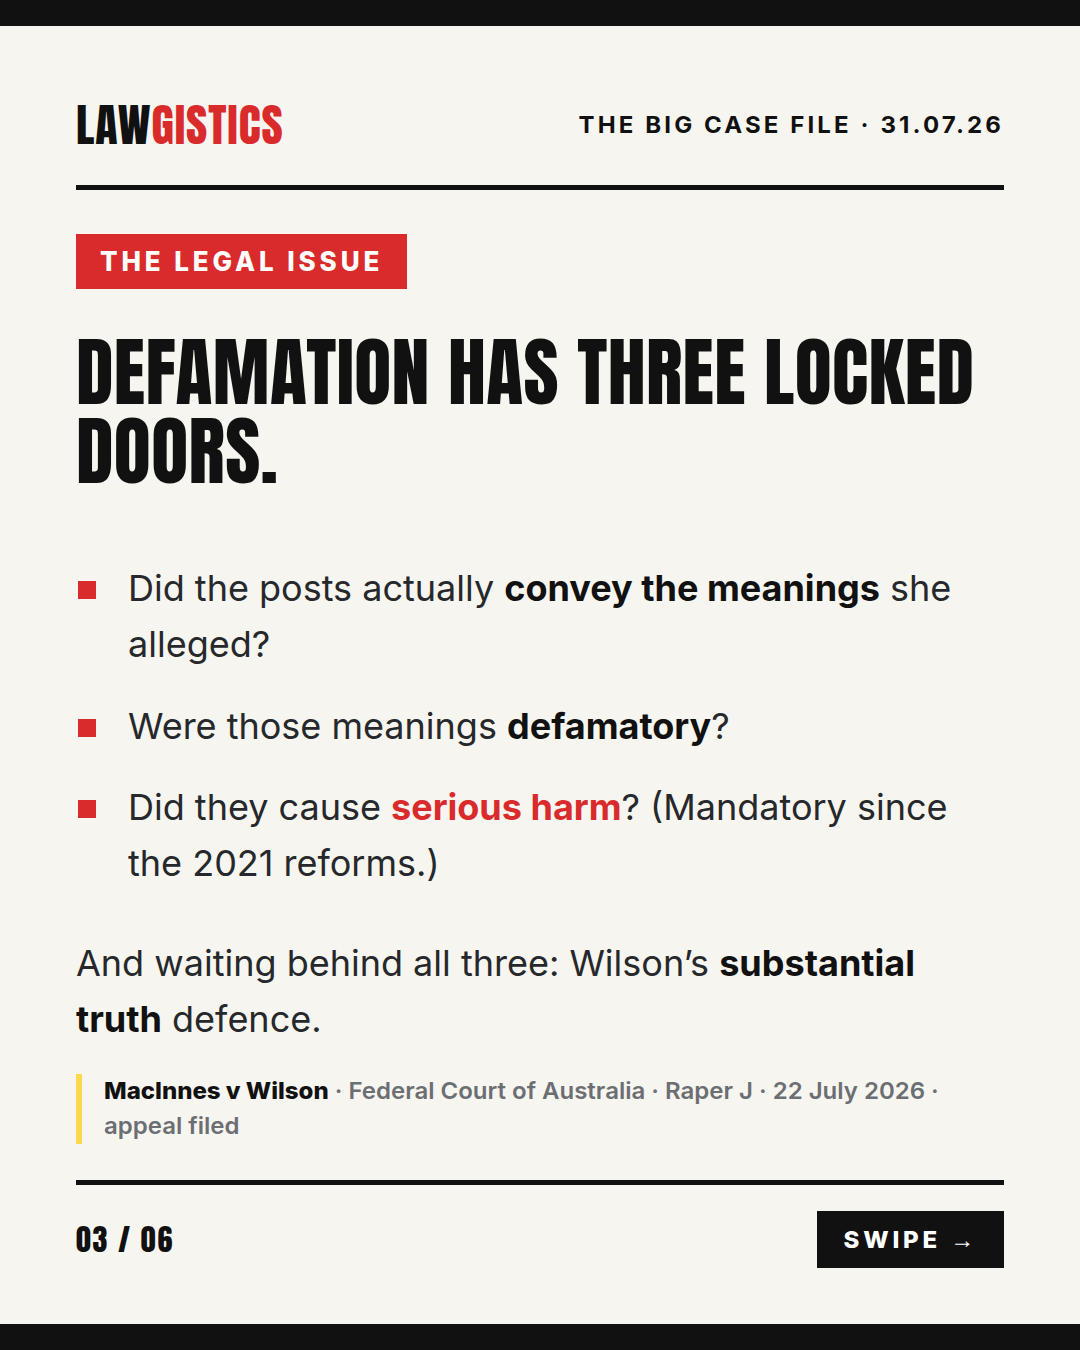
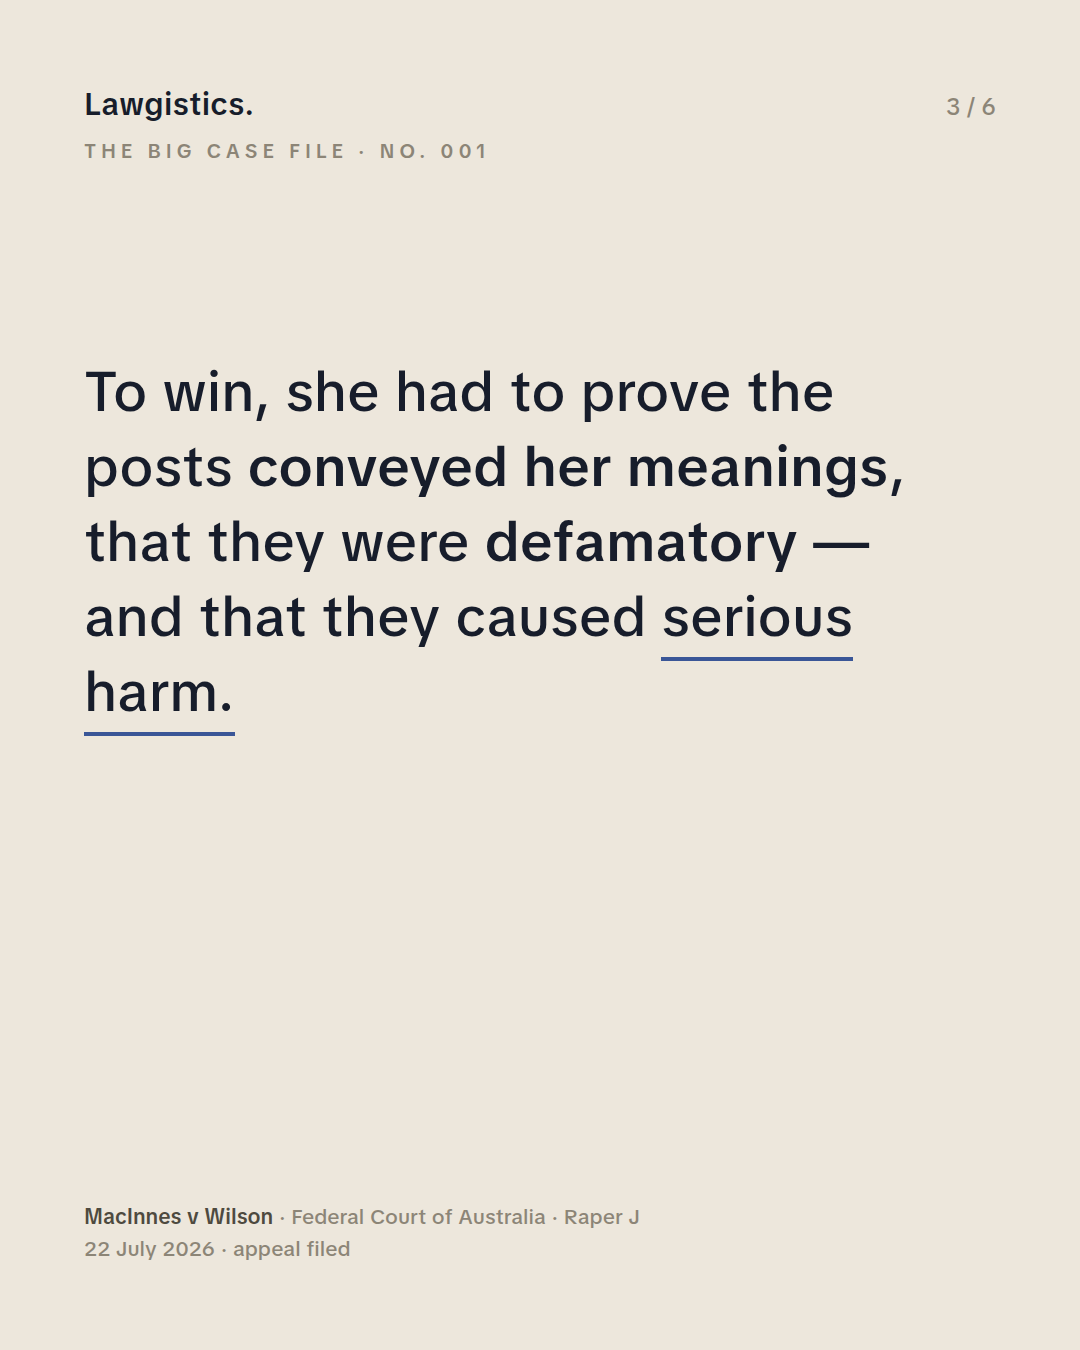
Adopt final Minimal design system from Niamh's brand references
One statement per slide in TikTok Sans on the existing Lawgistics
cream/navy palette with steel-blue underline accent; navy inverted
closer slide. All 18 slides re-rendered; pipeline and CLAUDE.md
updated. Supersedes the Press direction.

Claude-Session: https://claude.ai/code/session_01JRjeUUcoRT5GxuTf3inkfN

diff --git a/tools/carousel/build.py b/tools/carousel/build.py
@@ -1,8 +1,10 @@
 #!/usr/bin/env python3
-"""Lawgistics carousel generator — PRESS design system (approved 30 Jul 2026).
+"""Lawgistics carousel generator — MINIMAL design system (approved 30 Jul 2026).
 
-Newsprint look: cream paper #F7F5F0, black #111 Anton headlines, red #D92B2B
-tags, yellow #FFD84D highlighter. Fonts: Anton (display), Inter (everything else).
+Quiet-luxury editorial: one statement per slide, huge whitespace.
+Palette (from Niamh's existing Lawgistics grid): warm cream #EDE7DC,
+deep navy #171D2B, steel-blue underline accent #3A5697.
+Font: TikTok Sans (@fontsource/tiktok-sans). Final slide inverts to navy.
 Edit SETS below, run `python3 build.py`, then `node shoot.mjs` → PNGs in ./out/.
 """
 import json, pathlib
@@ -12,151 +14,122 @@ F = BASE / "node_modules" / "@fontsource"
 OUT = BASE / "out"
 OUT.mkdir(exist_ok=True)
 
-def font(fam, pkg, w):
-    return f"@font-face{{font-family:'{fam}';font-weight:{w};src:url('file://{F}/{pkg}/files/{pkg}-latin-{w}-normal.woff2') format('woff2');}}"
+def font(w):
+    return f"@font-face{{font-family:'TikTok Sans';font-weight:{w};src:url('file://{F}/tiktok-sans/files/tiktok-sans-latin-{w}-normal.woff2') format('woff2');}}"
 
-CSS = "\n".join([font("Anton","anton",400)] + [font("Inter","inter",w) for w in (400,500,600,700,800)]) + """
+CSS = "\n".join(font(w) for w in (400,500,600,700)) + """
 *{margin:0;padding:0;box-sizing:border-box;}
 html,body{width:1080px;height:1350px;overflow:hidden;-webkit-font-smoothing:antialiased;}
-body{background:#F7F5F0;font-family:'Inter',sans-serif;color:#111;}
-.bar{position:absolute;top:0;left:0;right:0;height:26px;background:#111;}
-.bar2{position:absolute;bottom:0;left:0;right:0;height:26px;background:#111;}
-.page{position:absolute;inset:26px 0;padding:64px 76px 56px;display:flex;flex-direction:column;}
-.masthead{display:flex;justify-content:space-between;align-items:center;border-bottom:5px solid #111;padding-bottom:26px;}
-.masthead .brand{font-family:'Anton';font-size:46px;letter-spacing:.02em;text-transform:uppercase;}
-.masthead .brand em{font-style:normal;color:#D92B2B;}
-.masthead .date{font-weight:700;font-size:24px;letter-spacing:.13em;text-transform:uppercase;}
-.series{margin-top:44px;display:flex;align-items:center;gap:20px;}
-.series .tag{background:#D92B2B;color:#fff;font-weight:800;font-size:26px;letter-spacing:.15em;padding:12px 24px;text-transform:uppercase;white-space:nowrap;}
-.series .no{font-weight:800;font-size:26px;letter-spacing:.1em;color:#111;text-transform:uppercase;}
-h1{font-family:'Anton';font-weight:400;line-height:1.04;text-transform:uppercase;margin-top:44px;letter-spacing:.005em;}
-.cover h1{font-size:118px;line-height:1.02;}
-.content h1{font-size:76px;}
-.q h1{font-size:88px;line-height:1.08;}
-h1 .hl{background:linear-gradient(180deg,transparent 8%,#FFD84D 8%,#FFD84D 92%,transparent 92%);padding:0 10px;}
-.standfirst{margin-top:50px;font-size:38px;line-height:1.52;color:#26282B;max-width:890px;}
-.body{margin-top:44px;font-size:36px;line-height:1.55;color:#26282B;}
-.body p+p{margin-top:28px;}
-.standfirst strong,.body strong{font-weight:700;color:#111;}
-.standfirst em,.body em{font-style:normal;font-weight:700;color:#D92B2B;}
-ul.body{list-style:none;}
-ul.body li{padding-left:52px;position:relative;margin-top:26px;}
-ul.body li::before{content:'';position:absolute;left:2px;top:20px;width:18px;height:18px;background:#D92B2B;}
-.cite{margin-top:auto;font-size:24px;font-weight:600;color:#6B6E73;border-left:6px solid #FFD84D;padding-left:22px;line-height:1.45;}
-.cite b{color:#111;}
-.disclaimer{margin-top:auto;font-size:22px;color:#8A8D92;line-height:1.5;max-width:700px;}
-.foot{margin-top:36px;border-top:5px solid #111;padding-top:26px;display:flex;justify-content:space-between;align-items:center;}
-.foot .pg{font-family:'Anton';font-size:30px;letter-spacing:.06em;}
-.foot .cta{background:#111;color:#fff;font-weight:800;font-size:24px;letter-spacing:.16em;padding:14px 26px;text-transform:uppercase;}
+body{font-family:'TikTok Sans',sans-serif;background:#EDE7DC;color:#171D2B;}
+body.dark{background:#171D2B;color:#EDE7DC;}
+.page{position:absolute;inset:0;padding:84px;display:flex;flex-direction:column;}
+.top{display:flex;justify-content:space-between;align-items:baseline;}
+.brand{font-size:31px;font-weight:600;letter-spacing:.01em;}
+.pg{font-size:23px;font-weight:500;color:#8C8577;}
+.dark .pg{color:#8B93A8;}
+.kicker{margin-top:14px;font-size:20px;font-weight:600;letter-spacing:.24em;text-transform:uppercase;color:#8C8577;}
+.dark .kicker{color:#8B93A8;}
+.statement{margin-top:190px;font-weight:500;color:inherit;max-width:900px;}
+.statement.lg{font-size:64px;line-height:1.3;}
+.statement.md{font-size:56px;line-height:1.34;}
+.statement p+p{margin-top:44px;}
+.statement strong{font-weight:600;}
+.u{border-bottom:4px solid #3A5697;padding-bottom:4px;box-decoration-break:clone;-webkit-box-decoration-break:clone;}
+.dark .u{border-bottom-color:#6E86C9;}
+.sub{margin-top:56px;font-size:30px;line-height:1.5;font-weight:400;color:#6E6858;max-width:820px;}
+.dark .sub{color:#A9B0C2;}
+.bottom{margin-top:auto;display:flex;justify-content:space-between;align-items:flex-end;gap:60px;}
+.cite{font-size:21px;line-height:1.55;font-weight:500;color:#8C8577;max-width:700px;}
+.cite b{color:#4E4A3F;font-weight:600;}
+.dark .cite{color:#8B93A8;}
+.dark .cite b{color:#C9CEDD;}
+.swipe{font-size:21px;font-weight:600;letter-spacing:.22em;text-transform:uppercase;color:#171D2B;white-space:nowrap;}
+.dark .swipe{color:#EDE7DC;}
+.disclaimer{font-size:18px;line-height:1.5;color:#707888;max-width:640px;margin-top:20px;}
 """
 
-def page(slug, kicker, tag, no, klass, inner, pg, cta):
-    no_html = f'<span class="no">{no}</span>' if no else ''
+def slide(slug, kicker, n, statement, cite, size="md", dark=False, sub=None, swipe=None, disclaimer=False):
+    disc = '<div class="disclaimer">General information only, not legal advice. Check details against the full judgment.</div>' if disclaimer else ''
+    sub_html = f'<div class="sub">{sub}</div>' if sub else ''
+    swipe_html = f'<div class="swipe">{swipe}</div>' if swipe else ''
     html = f"""<!doctype html><html><head><meta charset="utf-8"><style>{CSS}</style></head>
-<body><div class="bar"></div><div class="bar2"></div>
-<div class="page {klass}">
-  <div class="masthead"><div class="brand">Law<em>gistics</em></div><div class="date">{kicker}</div></div>
-  <div class="series"><span class="tag">{tag}</span>{no_html}</div>
-  {inner}
-  <div class="foot"><div class="pg">{pg}</div><div class="cta">{cta}</div></div>
+<body class="{'dark' if dark else ''}"><div class="page">
+  <div class="top"><div class="brand">Lawgistics.</div><div class="pg">{n} / 6</div></div>
+  <div class="kicker">{kicker}</div>
+  <div class="statement {size}">{statement}</div>
+  {sub_html}
+  <div class="bottom"><div><div class="cite">{cite}</div>{disc}</div>{swipe_html}</div>
 </div></body></html>"""
     (OUT / f"{slug}.html").write_text(html)
 
-def cover(slug, kicker, tag, no, headline, standfirst, cite):
-    page(slug, kicker, tag, no, "cover",
-        f'<h1>{headline}</h1><div class="standfirst">{standfirst}</div><div class="cite">{cite}</div>',
-        "01 / 06", "Swipe &rarr;")
+K_A = "Daily Court Intelligence &middot; 30.07.26"
+K_B = "Daily Court Intelligence &middot; 30.07.26"
+K_F = "The Big Case File &middot; No. 001"
+CITE_A = '<b>White Oak Commercial Finance Europe (Non-Levered) Ltd v Insurance Australia Ltd</b><br>[2026] FCA 769 &middot; Federal Court of Australia &middot; Thawley J'
+CITE_B = '<b>Elvin v Fair Work Ombudsman</b> &middot; [2026] FCAFC 92<br>Full Court of the Federal Court &middot; Collier, McDonald &amp; Vandongen JJ'
+CITE_F = '<b>MacInnes v Wilson</b> &middot; Federal Court of Australia &middot; Raper J<br>22 July 2026 &middot; appeal filed'
 
-def content(slug, kicker, tag, headline, body, cite, n):
-    page(slug, kicker, tag, "", "content",
-        f'<h1>{headline}</h1>{body}<div class="cite">{cite}</div>',
-        f"0{n} / 06", "Swipe &rarr;")
-
-def question(slug, kicker, headline, cta_text):
-    page(slug, kicker, "Your Turn", "", "q",
-        f'<h1>{headline}</h1><div class="standfirst">{cta_text}</div>'
-        '<div class="disclaimer">General information only, not legal advice. Details should be checked against the full judgment before relying on them.</div>',
-        "06 / 06", "Comment &darr;")
-
-K_DAILY = "Daily Court Intelligence &middot; 30.07.26"
-K_FRI = "The Big Case File &middot; 31.07.26"
-CITE_A = '<b>White Oak Commercial Finance Europe (Non-Levered) Ltd v Insurance Australia Ltd</b> &middot; [2026] FCA 769'
-CITE_B = '<b>Elvin v Fair Work Ombudsman</b> &middot; [2026] FCAFC 92'
-CITE_F = '<b>MacInnes v Wilson</b> &middot; Federal Court of Australia &middot; Raper J &middot; 22 July 2026 &middot; appeal filed'
-
-# ── Set A: White Oak (daily) ──
-cover("a1", K_DAILY, "Federal Court", "Privilege",
-    '&ldquo;Without prejudice&rdquo; is not a <span class="hl">magic spell.</span>',
-    'The Federal Court refused to protect settlement-adjacent messages in the <strong>Greensill insurance wars</strong> &mdash; because labels don&rsquo;t make privilege. <em>Substance does.</em>',
+# ── Set A: White Oak ──
+slide("a1", K_A, 1,
+    'The Federal Court just ruled that labelling a message &ldquo;without prejudice&rdquo; protects&hellip; <span class="u">nothing, by itself.</span>',
+    CITE_A, size="lg", swipe="Swipe &rarr;")
+slide("a2", K_A, 2,
+    '<p>After Greensill collapsed, lender White Oak sued insurer IAL under a trade credit policy.</p><p>The insurer demanded <strong>twelve messages and a draft term sheet</strong> created while the parties circled a settlement.</p>',
     CITE_A)
-content("a2", K_DAILY, "The Facts", 'A collapsed giant. A lender. An insurer.',
-    """<div class="body"><p>After <strong>Greensill</strong> imploded in 2021, lender <strong>White Oak</strong> sued Insurance Australia Ltd, claiming trade credit insurance should cover its losses.</p>
-    <p>This round was a documents fight: the insurer demanded <em>twelve messages and a draft term sheet</em> created while the parties circled a possible settlement.</p></div>""", CITE_A, 2)
-content("a3", K_DAILY, "The Legal Issue", 'Are &ldquo;settlement vibes&rdquo; protected?',
-    """<div class="body"><p>Without prejudice privilege shields <strong>genuine settlement negotiations</strong> from becoming evidence.</p>
-    <p>But does it cover messages that merely <em>talk about</em> the dispute &mdash; with no offer, no admissions, no deal on the table?</p></div>""", CITE_A, 3)
-content("a4", K_DAILY, "The Court&rsquo;s Reasoning", 'No negotiation, no privilege.',
-    """<ul class="body">
-    <li>The messages addressed only a <strong>&ldquo;general approach&rdquo;</strong> to the dispute.</li>
-    <li>No reference to litigation. No admissions. <em>No element of compromise.</em></li>
-    <li>Other documents weren&rsquo;t even relevant &mdash; so production was refused at the first gate.</li></ul>""", CITE_A, 4)
-content("a5", K_DAILY, "Practical Takeaway", 'Make negotiations look like negotiations.',
-    """<ul class="body">
-    <li>A &ldquo;without prejudice&rdquo; header <strong>proves nothing</strong> on its own.</li>
-    <li>Substantiate privilege <strong>document by document</strong>, with evidence.</li>
-    <li>Resisting production? Argue <em>relevance first</em> &mdash; it&rsquo;s often the cleaner kill.</li></ul>""", CITE_A, 5)
-question("a6", K_DAILY, 'Ever written &ldquo;without prejudice&rdquo;&hellip; <span class="hl">just in case?</span>',
-    'Be honest. <strong>Tell us in the comments</strong> &mdash; and share this with the colleague who does it weekly.')
+slide("a3", K_A, 3,
+    '<p>Settlement negotiations are privileged.</p><p>But are messages that merely <em>talk about</em> a dispute &mdash; <span class="u">no offer, no admissions</span> &mdash; negotiations at all?</p>'.replace('<em>','<strong>').replace('</em>','</strong>'),
+    CITE_A)
+slide("a4", K_A, 4,
+    '<p>No, said the Court.</p><p>A &ldquo;general approach&rdquo; to a dispute, with <span class="u">no element of compromise</span>, is not a negotiation. No privilege &mdash; and irrelevant documents stay put anyway.</p>',
+    CITE_A)
+slide("a5", K_A, 5,
+    '<p>Substantiate privilege document by document.</p><p>Argue relevance first.</p><p>And make negotiations <span class="u">look like negotiations.</span></p>',
+    CITE_A)
+slide("a6", K_A, 6,
+    'Be honest &mdash; have you ever written &ldquo;without prejudice&rdquo; <span class="u">just in case?</span>',
+    CITE_A, size="lg", dark=True, sub="Tell us in the comments &mdash; and send this to the colleague who does it weekly.",
+    swipe="Comment &darr;", disclaimer=True)
 
-# ── Set B: Elvin (banked daily) ──
-cover("b1", K_DAILY, "Full Federal Court", "Fair Work",
-    'The company cut a deal. The regulator <span class="hl">kept coming.</span>',
-    'A deed of company arrangement didn&rsquo;t stop the <strong>Fair Work Ombudsman</strong> &mdash; and the Full Court&rsquo;s ruling touches <em>every underpayment case</em> in Australia.',
+# ── Set B: Elvin ──
+slide("b1", K_B, 1,
+    'A company cut a deal with its creditors. The Fair Work Ombudsman <span class="u">kept coming anyway.</span>',
+    CITE_B, size="lg", swipe="Swipe &rarr;")
+slide("b2", K_B, 2,
+    '<p>The FWO sued over underpaid massage therapists &mdash; and won, including findings against an individual <strong>personally involved</strong>.</p><p>Then the employer struck a deed of company arrangement.</p>',
     CITE_B)
-content("b2", K_DAILY, "The Facts", 'Underpaid therapists, personal liability.',
-    """<div class="body"><p>The Fair Work Ombudsman sued over <strong>underpaid massage therapists</strong> &mdash; and won at trial, including findings against an individual <em>personally involved</em> in the contraventions.</p>
-    <p>Meanwhile, the employing company struck a <strong>deed of company arrangement</strong> (DOCA) with its creditors.</p></div>""", CITE_B, 2)
-content("b3", K_DAILY, "The Legal Issues", 'Three questions, one appeal.',
-    """<ul class="body">
-    <li>Were the therapists correctly classified under the <strong>health award</strong>?</li>
-    <li>Was the trial <strong>fair to a self-represented litigant</strong> facing technical evidence rules?</li>
-    <li>Is the FWO even a <em>&ldquo;creditor&rdquo;</em> bound by a DOCA?</li></ul>""", CITE_B, 3)
-content("b4", K_DAILY, "The Court&rsquo;s Reasoning", 'Neither side walked away clean.',
-    """<div class="body"><p>The Full Court &mdash; Collier, McDonald and Vandongen JJ &mdash; <strong>allowed the appeal in part</strong> and dismissed the FWO&rsquo;s cross-appeal.</p>
-    <p>Evidence rules like <em>Browne v Dunn</em> must be applied carefully against unrepresented parties &mdash; and classification got a full workout.</p></div>""", CITE_B, 4)
-content("b5", K_DAILY, "Practical Takeaway", 'Restructures don&rsquo;t erase workplace risk.',
-    """<ul class="body">
-    <li><strong>Audit award classifications</strong> &mdash; they drive the whole quantum.</li>
-    <li>Personal accessorial liability <em>survives corporate rescue</em>.</li>
-    <li>Facing a self-represented opponent? <strong>Over-invest in fairness</strong> &mdash; it protects your win on appeal.</li></ul>""", CITE_B, 5)
-question("b6", K_DAILY, 'More slack for self-represented litigants &mdash; <span class="hl">fair or foul?</span>',
-    'Or does that shortchange the represented side? <strong>Drop your take below.</strong>')
+slide("b3", K_B, 3,
+    '<p>Three questions on appeal:</p><p>The award classification. Fairness to a <strong>self-represented litigant</strong>. And whether the FWO is even a <span class="u">&ldquo;creditor&rdquo; bound by a DOCA.</span></p>',
+    CITE_B)
+slide("b4", K_B, 4,
+    '<p>The Full Court allowed the appeal <strong>in part</strong> &mdash; and dismissed the FWO&rsquo;s cross-appeal.</p><p>Technical evidence rules must be applied <span class="u">carefully against unrepresented parties.</span></p>',
+    CITE_B)
+slide("b5", K_B, 5,
+    '<p>Audit award classifications.</p><p>Assume personal liability <span class="u">survives corporate rescue.</span></p><p>And over-invest in fairness against self-represented opponents.</p>',
+    CITE_B)
+slide("b6", K_B, 6,
+    'Should self-represented litigants get <span class="u">more slack</span> on evidence rules?',
+    CITE_B, size="lg", dark=True, sub="Or does that shortchange the represented side? Drop your take below.",
+    swipe="Comment &darr;", disclaimer=True)
 
 # ── Set F: Big Case File No. 1 — Rebel Wilson ──
-cover("f1", K_FRI, "Case File", "No. 001 &mdash; Rebel Wilson",
-    'Four posts. <span class="hl">Zero</span> defamation.',
-    'Charlotte MacInnes sued <strong>Rebel Wilson</strong> over Instagram posts about an on-set dispute. The Federal Court threw out <strong>every claim</strong> &mdash; a masterclass in modern defamation law.',
+slide("f1", K_F, 1,
+    'Charlotte MacInnes sued Rebel Wilson over four Instagram posts. The Federal Court just threw out <span class="u">every claim.</span>',
+    CITE_F, size="lg", swipe="Swipe &rarr;")
+slide("f2", K_F, 2,
+    '<p>MacInnes starred in <strong>The Deb</strong> &mdash; Wilson&rsquo;s directorial debut.</p><p>She said Wilson&rsquo;s posts painted her as <span class="u">changing her story</span> about an on-set incident, to boost her career.</p>',
     CITE_F)
-content("f2", K_FRI, "The Facts", 'A film set, a fallout, a lawsuit.',
-    """<div class="body"><p>MacInnes starred in <em>The Deb</em> &mdash; Wilson&rsquo;s directorial debut. She sued over <strong>four sets of Instagram posts</strong> (Sept 2024 &ndash; July 2025), saying they painted her as having <strong>changed her story</strong> about an incident involving a producer&hellip; to boost her career.</p>
-    <p>She added a breach of confidence claim for good measure.</p></div>""", CITE_F, 2)
-content("f3", K_FRI, "The Legal Issue", 'Defamation has three locked doors.',
-    """<ul class="body">
-    <li>Did the posts actually <strong>convey the meanings</strong> she alleged?</li>
-    <li>Were those meanings <strong>defamatory</strong>?</li>
-    <li>Did they cause <em>serious harm</em>? (Mandatory since the 2021 reforms.)</li></ul>
-    <div class="body"><p>And waiting behind all three: Wilson&rsquo;s <strong>substantial truth</strong> defence.</p></div>""", CITE_F, 3)
-content("f4", K_FRI, "The Court&rsquo;s Reasoning", 'Every door stayed shut.',
-    """<ul class="body">
-    <li>Only <strong>one</strong> alleged meaning was conveyed by any post: that MacInnes <strong>changed her account</strong>.</li>
-    <li>That was <em>substantially true</em>, Justice Raper found.</li>
-    <li>&ldquo;She changed her story&rdquo; isn&rsquo;t necessarily defamatory anyway &mdash; and <strong>no serious harm was proven</strong>. Dismissed, with costs.</li></ul>""", CITE_F, 4)
-content("f5", K_FRI, "Practical Takeaway", 'Serious harm is the new gatekeeper.',
-    """<ul class="body">
-    <li>Since 2021, plaintiffs must <strong>prove serious harm</strong> &mdash; courts won&rsquo;t assume it, even for viral posts.</li>
-    <li>The <strong>court</strong> decides what a post means &mdash; not the plaintiff&rsquo;s reading of it.</li>
-    <li>Truth remains the <em>complete defence</em>. An appeal has been filed &mdash; watch this space.</li></ul>""", CITE_F, 5)
-question("f6", K_FRI, 'Litigate on Instagram &mdash; <span class="hl">risky genius</span> or terrible template?',
-    'Wilson posted her side while cameras rolled, and won. <strong>Drop your take below.</strong>')
+slide("f3", K_F, 3,
+    '<p>To win, she had to prove the posts <strong>conveyed her meanings</strong>, that they were <strong>defamatory</strong> &mdash; and that they caused <span class="u">serious harm.</span></p>',
+    CITE_F)
+slide("f4", K_F, 4,
+    '<p>Only one meaning was conveyed: that she <strong>changed her account</strong>.</p><p>The Court found that was <span class="u">substantially true</span> &mdash; and no serious harm was proven. Dismissed, with costs.</p>',
+    CITE_F)
+slide("f5", K_F, 5,
+    '<p>Serious harm is the gatekeeper now.</p><p>Courts decide what posts mean &mdash; not plaintiffs.</p><p>And truth remains <span class="u">the complete defence.</span></p>',
+    CITE_F)
+slide("f6", K_F, 6,
+    'Litigating on Instagram: <span class="u">risky genius</span> or terrible template?',
+    CITE_F, size="lg", dark=True, sub="Wilson posted her side while cameras rolled &mdash; and won. Drop your take below.",
+    swipe="Comment &darr;", disclaimer=True)
 
 print(json.dumps(sorted(p.name for p in OUT.glob('*.html'))))

diff --git a/CLAUDE.md b/CLAUDE.md
@@ -16,9 +16,11 @@ This repo powers the **Lawgistics Daily Court Intelligence** workflow. Any sessi
 
 ## Design system (keep consistent)
 
-- **PRESS style** (approved by Niamh 30 Jul 2026 over navy/gold — do not revert). Newsprint look: cream paper `#F7F5F0`, black `#111` bars top/bottom, red `#D92B2B` tags/emphasis, yellow highlighter `#FFD84D` on 1-2 headline words.
-- Canvas 1080×1350 (4:5). Fonts: Anton (uppercase display headlines), Inter for everything else (@fontsource on npm).
-- Every slide: LAWGISTICS masthead (GISTICS in red) + kicker "DAILY COURT INTELLIGENCE · DD.MM.YY" (Friday: "THE BIG CASE FILE · DD.MM.YY"), red section tag, yellow-bar citation block, thick rule footer with page number and SWIPE → box (COMMENT ↓ on final slide), disclaimer on final slide.
+- **MINIMAL style** (approved by Niamh 30 Jul 2026 from her reference images, replacing earlier navy/gold and Press directions — do not revert). Quiet-luxury editorial: ONE statement per slide, huge whitespace, no boxes/bars/tags.
+- Palette matches Niamh's existing Lawgistics Instagram grid: warm cream `#EDE7DC` background, deep navy `#171D2B` text, steel-blue underline accent `#3A5697` (4px underline on 1 key phrase per slide). Final slide of each carousel inverts: navy background, cream text, accent `#6E86C9`.
+- Canvas 1080×1350 (4:5). Font: **TikTok Sans** (@fontsource/tiktok-sans) for everything — statements ~56-64px weight 500, bold via 600.
+- Every slide: "Lawgistics." wordmark top-left + tiny letterspaced kicker below it ("DAILY COURT INTELLIGENCE · DD.MM.YY"; Friday: "THE BIG CASE FILE · NO. 00X"), "n / 6" top-right, small grey citation block bottom-left, "SWIPE →" on slide 1 / "COMMENT ↓" on slide 6, disclaimer microtext on final slide. Nothing else — resist decorating.
+- Copy rules for slides: max ~35 words per slide, short sentences, one underlined phrase; the carousel reads as six sequential statements (hook / facts / issue / ruling / takeaway / question).
 
 ## Editorial rules
 

diff --git a/tools/carousel/README.md b/tools/carousel/README.md
@@ -2,7 +2,7 @@
 
 Setup (once per session):
 ```
-npm init -y && npm install @fontsource/playfair-display @fontsource/inter playwright-core
+npm init -y && npm install @fontsource/tiktok-sans playwright-core
 ```
 
 Usage: edit the slide content dicts in build.py, then:
